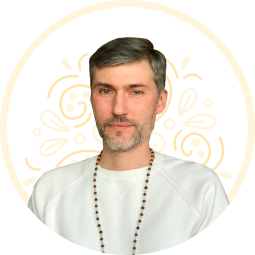
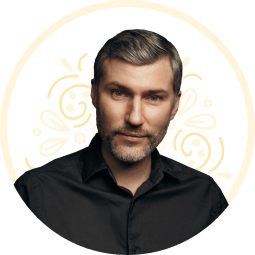
fx

diff --git a/src/app/app.component.html b/src/app/app.component.html
@@ -101,6 +101,13 @@
           <div class="row_d">
             <div class="partp">
               <p class="imgf">
+                <img src="assets/images/png/mm.png" alt="pic" />
+              </p>
+              <p class="c_titl">Анастасия</p>
+              <p class="sb_titl">Координатор</p>
+            </div>
+            <div class="partp">
+              <p class="imgf">
                 <img src="assets/images/png/nt.png" alt="pic" />
               </p>
               <p class="c_titl">Нитья</p>
@@ -131,11 +138,6 @@
           </div>
         </div>
       </div>
-      <img
-        src="assets/images/lotus-green-lite.svg"
-        alt="qwe"
-        class="img-footer-absolute"
-      />
     </div>
   </div> 
 </main>

diff --git a/src/styles.scss b/src/styles.scss
@@ -205,12 +205,9 @@ p.mt-1 {
   display: flex;
   width: 80%;
 }
-.footer {
-  background: url(./assets/images/footer-back.svg) 0 0 / cover no-repeat; 
-}
 .footer-inner {
   max-width: 800px;
-  margin: 300px auto 0;
+  margin: 100px auto 0;
   display: flex;
   flex-direction: column;
   align-items: center;
@@ -234,7 +231,7 @@ p.mt-1 {
   font-size: 18px;
   line-height: 22px;
   text-align: center;
-  color: #ffffff;
+  color: rgb(29, 28, 28);
 }
 @media screen and (max-width: 1200px) {
   .items_wrap {
@@ -309,6 +306,9 @@ p.mt-1 {
   .btn_gen {
     font-size: 18px;
     padding: 14px;
+  }
+  .footer-inner {
+    margin: 130px auto 0;
   }
 }
 @media (max-width: 540px) {